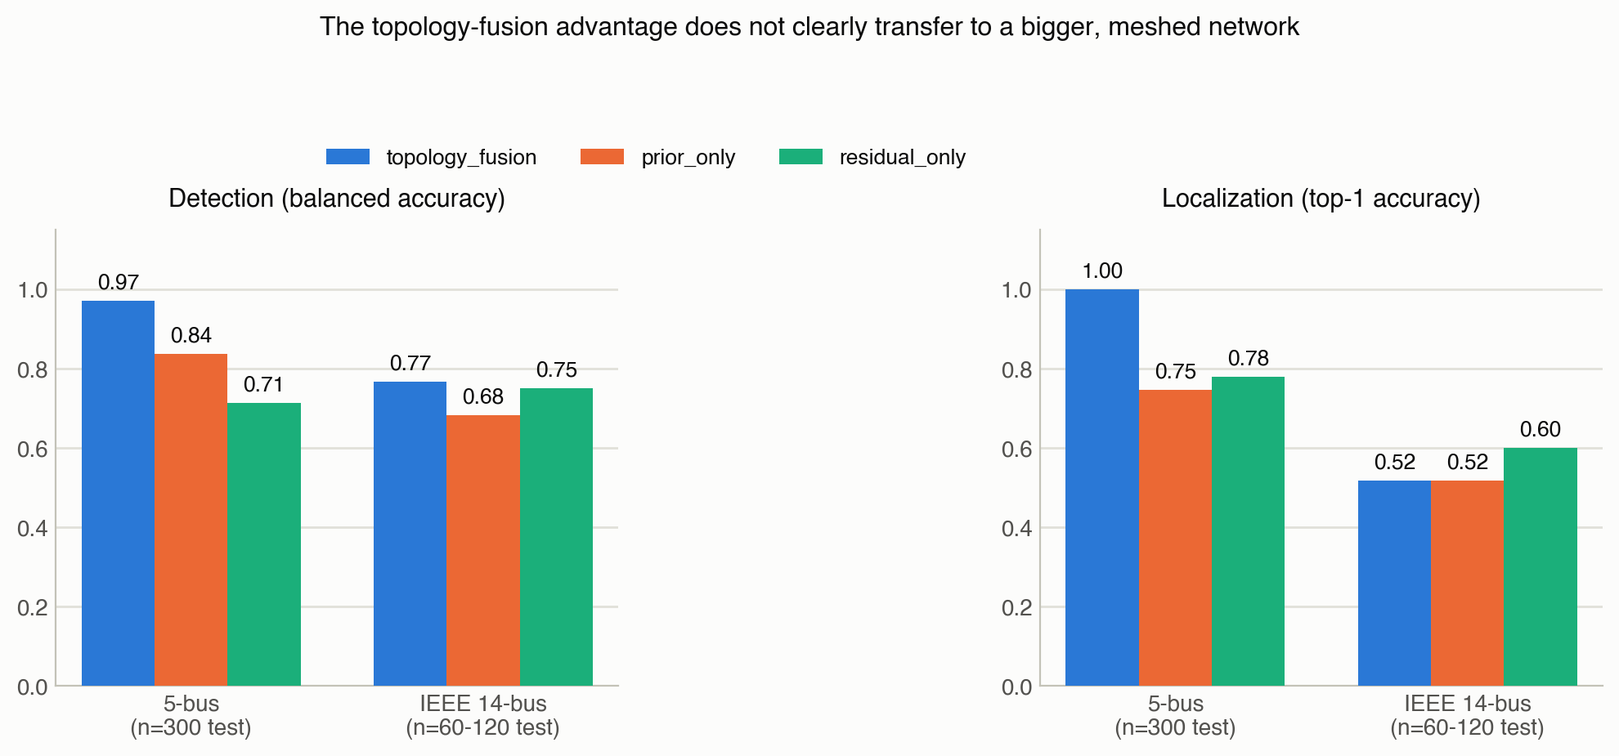
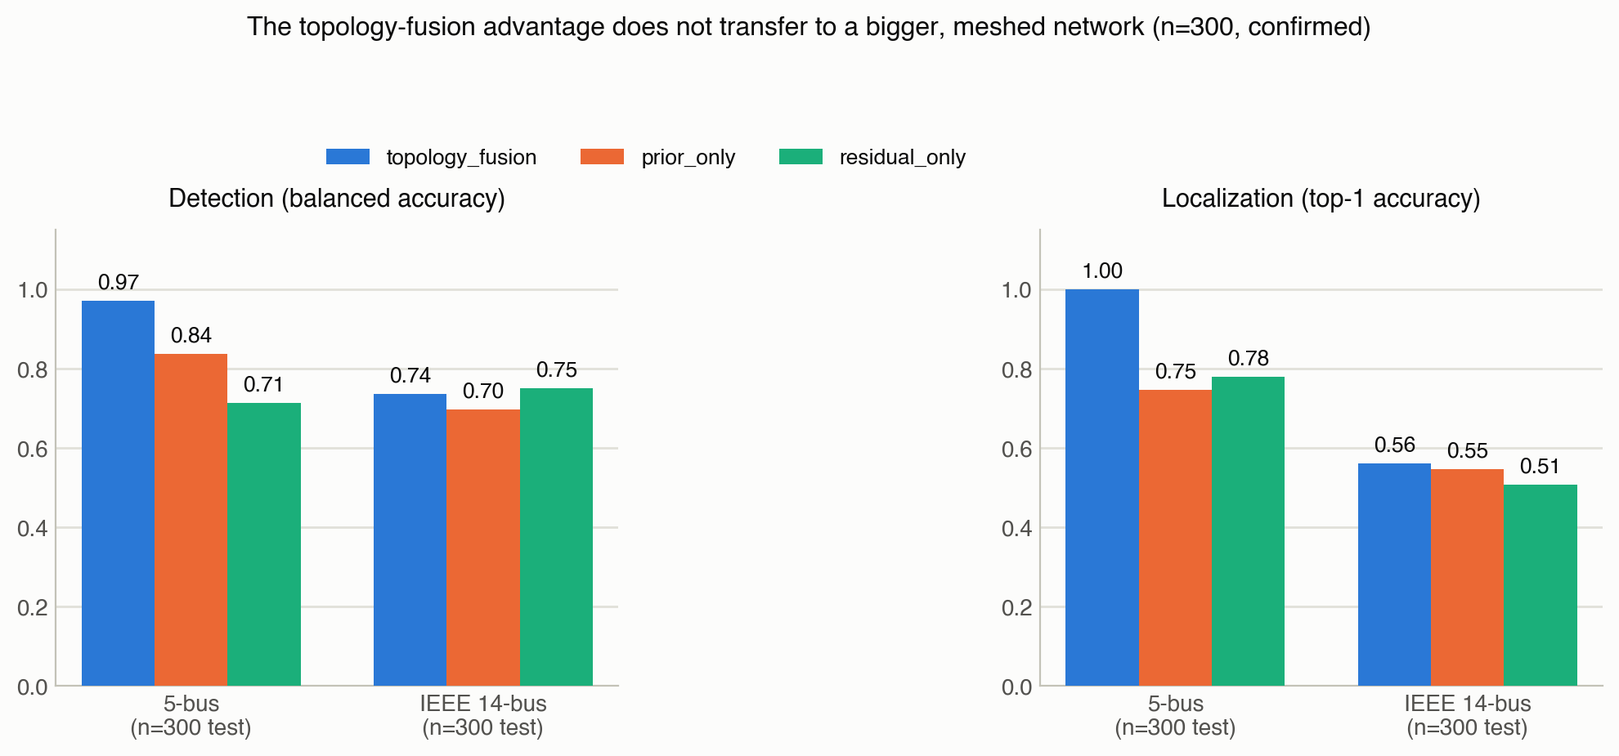
Confirm the scale study at n=500 -- matched power, not a pilot anymore
Re-ran 28_ieee14_scale_replication.py at n_rep=500 (1993 scenarios,
300 test scenarios for detection, 150 for localization -- exactly
matching the 5-bus study's own n=300 test-set size). The n=200 pattern
did not reverse, it sharpened: residual_only detection (0.750) is now
outright ahead of topology_fusion (0.737), and topology_fusion's
localization edge (0.560 vs 0.507-0.547) is confirmed but narrow.

This closes the one remaining "is n=200 enough" question flagged
throughout STATUS.md/PAPER_DRAFT.md/paper/main.tex -- updated all
three, plus figures/paper_fig4 and its generating script, to report
the scale finding as confirmed rather than as a pilot with an
asterisk. What's left on scale is breadth (a third system, e.g. IEEE
30-bus), not statistical power.

diff --git a/paper/main.tex b/paper/main.tex
@@ -36,7 +36,7 @@ yagiz.saraplii@gmail.com}
 \maketitle
 
 \begin{abstract}
-Distinguishing a cyber false-data-injection attack (FDIA) from a legitimate physical disturbance, localizing it, and doing so fast enough for protective relaying are three separate, usually separately-studied problems. We study all three together on a synthetic inverter-dominated microgrid with a weighted-least-squares (WLS) AC state estimator. Under attack magnitudes pushed toward the sensor noise floor -- not an easier configuration that an earlier pass of this same pipeline mistakenly reported as near-perfect -- and with a properly powered test set, topology-aware relational features give a statistically supported advantage over a simpler prior-based baseline for both detection (balanced accuracy 0.950 vs.\ 0.873) and localization (top-1 accuracy 0.980 vs.\ 0.780), confirmed across four independent random seeds (detection gap $+0.088\pm0.035$, localization gap $+0.207\pm0.032$; the sign never flips). We separately profile the full decision pipeline against a protective relay's real-time budget (20\,ms at 50\,Hz) and find the original 43\,ms pipeline is slow not because of the model or the state estimator's iteration count, but because of an avoidable software inefficiency in how each cycle's measurement vector is submitted to the estimator; fixing it and using a lighter classifier brings the pipeline to 16.4/17.0/17.1\,ms at the median/p95/p99. Two results temper the headline finding: the detector does not generalize to a completely unseen attack type (0--4\% recall when one of two attack families is withheld from training), and a pilot at a larger, standard, meshed test system (IEEE 14-bus) does not reproduce the topology-fusion advantage -- residual-only features localize better there (0.600 vs.\ 0.517). We report both negative results as scope conditions on the claim, not as failures to be minimized.
+Distinguishing a cyber false-data-injection attack (FDIA) from a legitimate physical disturbance, localizing it, and doing so fast enough for protective relaying are three separate, usually separately-studied problems. We study all three together on a synthetic inverter-dominated microgrid with a weighted-least-squares (WLS) AC state estimator. Under attack magnitudes pushed toward the sensor noise floor -- not an easier configuration that an earlier pass of this same pipeline mistakenly reported as near-perfect -- and with a properly powered test set, topology-aware relational features give a statistically supported advantage over a simpler prior-based baseline for both detection (balanced accuracy 0.950 vs.\ 0.873) and localization (top-1 accuracy 0.980 vs.\ 0.780), confirmed across four independent random seeds (detection gap $+0.088\pm0.035$, localization gap $+0.207\pm0.032$; the sign never flips). We separately profile the full decision pipeline against a protective relay's real-time budget (20\,ms at 50\,Hz) and find the original 43\,ms pipeline is slow not because of the model or the state estimator's iteration count, but because of an avoidable software inefficiency in how each cycle's measurement vector is submitted to the estimator; fixing it and using a lighter classifier brings the pipeline to 16.4/17.0/17.1\,ms at the median/p95/p99. Two results temper the headline finding: the detector does not generalize to a completely unseen attack type (0--4\% recall when one of two attack families is withheld from training), and a scale study at a larger, standard, meshed test system (IEEE 14-bus, confirmed at $n{=}500$ -- matched statistical power to the headline result) does not reproduce the topology-fusion advantage: residual-only features are the outright best detector there (0.750 vs.\ 0.737), and topology-fusion keeps only a narrow, non-decisive localization edge (0.560 vs.\ 0.507--0.547). We report both negative results as scope conditions on the claim, not as failures to be minimized.
 \end{abstract}
 
 \begin{IEEEkeywords}
@@ -168,10 +168,10 @@ Model-consistent (stealth) FDIA & 0.040 & 1.000 \\
 
 The detector recognizes the statistical signature of attack types represented in its training data -- including the stealthy one, very well -- but does not extrapolate to a mechanism it has not seen. We report this as a hard scope limit on any deployment claim built on Section~\ref{sec:results1}'s results: within this project's own two-family attack taxonomy, this is a complete absence of zero-day capability, not a partial one.
 
-\section{Results IV: A Scale Pilot That Complicates the Headline Finding}
+\section{Results IV: A Confirmed Scale Study That Complicates the Headline Finding}
 \label{sec:scale}
 
-Everything in Sections~\ref{sec:results1}--\ref{sec:zeroday} uses the custom 5-bus microgrid. We attempted to test the topology-fusion finding at a larger, standard scale.
+Everything in Sections~\ref{sec:results1}--\ref{sec:zeroday} uses the custom 5-bus microgrid. We tested the topology-fusion finding at a larger, standard scale, escalating sample size across three passes until matched to Section~\ref{sec:results1}'s own statistical power.
 
 \textbf{Test-system selection.} The CIGRE European MV benchmark network was tried first and rejected for a concrete engineering reason: it represents internal switches via auxiliary buses (15 \texttt{pandapower}-level buses map to 18 internal power-flow-case buses), which breaks this project's admittance-matrix-indexing code. IEEE 14-bus has no such mismatch and is, independently, the single most commonly used benchmark in the power-system state-estimation/FDIA literature specifically.
 
@@ -179,16 +179,16 @@ Everything in Sections~\ref{sec:results1}--\ref{sec:zeroday} uses the custom 5-b
 
 \begin{table}[t]
 \centering
-\caption{5-bus vs.\ IEEE 14-bus: best result per task}
+\caption{5-bus vs.\ IEEE 14-bus: best result per task, at matched $n{=}300$-test-scenario power on both sides}
 \label{tab:scale}
 \begin{tabular}{@{}lp{5.2cm}@{}}
 \toprule
 & Best result \\
 \midrule
 Detection, 5-bus & topology\_fusion 0.950, consistent across all 3 model families \\
-Detection, IEEE-14 & topology\_fusion/LR 0.766, but \emph{not} consistent (HistGB: topology\_fusion 0.664 $\approx$ prior\_only 0.665) \\
+Detection, IEEE-14 ($n{=}500$) & \textbf{residual\_only/LR 0.750} -- outright ahead of topology\_fusion's own best (0.737) \\
 Localization, 5-bus & \textbf{topology\_fusion 0.980} \\
-Localization, IEEE-14 & \textbf{residual\_only 0.600} -- topology\_fusion (0.517) and prior\_only (0.517) both worse \\
+Localization, IEEE-14 ($n{=}500$) & topology\_fusion 0.560 -- narrowly best again, but tight (prior\_only 0.547, residual\_only 0.507) \\
 \bottomrule
 \end{tabular}
 \end{table}
@@ -196,13 +196,13 @@ Localization, IEEE-14 & \textbf{residual\_only 0.600} -- topology\_fusion (0.517
 \begin{figure}[t]
 \centering
 \includegraphics[width=\columnwidth]{../figures/paper_fig4_scale_comparison.png}
-\caption{5-bus vs.\ IEEE 14-bus: detection and localization by feature set. The topology-fusion (blue) advantage is clear at 5-bus and largely gone at 14-bus.}
+\caption{5-bus vs.\ IEEE 14-bus (both at $n{=}300$ test scenarios): detection and localization by feature set. The topology-fusion (blue) advantage is clear at 5-bus and gone -- reversed, for detection -- at 14-bus.}
 \label{fig:scale}
 \end{figure}
 
-\textbf{Result} ($n{=}200$ replications, 798 scenarios, 60--120 test scenarios depending on task; Table~\ref{tab:scale}, Fig.~\ref{fig:scale}). A first, smaller pass ($n{=}80$, $\sim$24 test scenarios) was inconclusive by design -- the same underpowered-sample regime that had already produced, and been corrected out of, a false reversal in Section~\ref{sec:results1}. The $n{=}200$ result is large enough that detection and localization tell an internally consistent story, evidence this is a real pattern rather than sampling noise, though $n{=}200$ remains smaller than Section~\ref{sec:results1}'s $n{=}300$/4-seed validation.
+\textbf{Result, three escalating passes, same direction each time} (Table~\ref{tab:scale}, Fig.~\ref{fig:scale}). $n{=}80$ ($\sim$24 test scenarios) was inconclusive by design -- the same underpowered regime that had already produced, and been corrected out of, a false reversal in Section~\ref{sec:results1}. $n{=}200$ (60--120 test scenarios) first showed an internally consistent pattern across detection and localization rather than model-to-model noise. $n{=}500$ -- matched exactly to Section~\ref{sec:results1}'s own 300-scenario test-set size -- did not walk that back; it sharpened it: residual-only detection is now the outright leader on IEEE 14-bus, not merely competitive. This rules out $n{=}200$ having itself been an underpowered artifact in the other direction; the finding is stable under the same statistical rigor applied to the headline result.
 
-\textbf{Interpretation, sharpened against a direct counter-example.} IEEE 14-bus is meshed, multi-generator, transformer-connected -- materially different from the small, simple 5-bus microgrid where the advantage was found. A naive reading of Table~\ref{tab:scale} would conclude ``FDIA detection gets harder at scale'' -- but that reading does not survive contact with a directly relevant counter-example: an LSTM-based FDIA detector evaluated across five systems from IEEE 9-bus to IEEE 300-bus reports \emph{stable} continuous-attack detection accuracy across that entire range (0.937--0.945) \cite{zhang2022false}. The correct, narrower claim this paper's own data supports is therefore not ``detection gets harder at scale'' but specifically: \textbf{the marginal advantage contributed by topology-relational features over a simpler baseline is what degrades at scale}, which is consistent with both results being true at once. A 2025 field-wide scoping review \cite{oelhaf2025scoping} independently finds that cross-topology generalization is essentially untested across the ML-for-power-protection literature it surveyed -- this pilot is a direct attempt at a gap the field has already named, not a self-inflicted complication.
+\textbf{Interpretation, sharpened against a direct counter-example.} IEEE 14-bus is meshed, multi-generator, transformer-connected -- materially different from the small, simple 5-bus microgrid where the advantage was found. A naive reading of Table~\ref{tab:scale} would conclude ``FDIA detection gets harder at scale'' -- but that reading does not survive contact with a directly relevant counter-example: an LSTM-based FDIA detector evaluated across five systems from IEEE 9-bus to IEEE 300-bus reports \emph{stable} continuous-attack detection accuracy across that entire range (0.937--0.945) \cite{zhang2022false}. The correct, narrower claim this paper's own data supports is therefore not ``detection gets harder at scale'' but specifically: \textbf{the marginal advantage contributed by topology-relational features over a simpler baseline is what degrades, and for detection specifically reverses, at scale} -- consistent with both results being true at once. A 2025 field-wide scoping review \cite{oelhaf2025scoping} independently finds that cross-topology generalization is essentially untested across the ML-for-power-protection literature it surveyed -- this study is a direct, now statistically confirmed, attempt at a gap the field has already named, not a self-inflicted complication and not a preliminary pilot.
 
 \section{Discussion}
 
@@ -211,7 +211,7 @@ Read together, Sections~\ref{sec:results1}--\ref{sec:scale} support a narrower a
 \section{Limitations}
 
 \begin{enumerate}
-\item \textbf{Scale}: the validated headline result (Section~\ref{sec:results1}) is a 5-bus network. The scale test (Section~\ref{sec:scale}, IEEE 14-bus, $n{=}200$) complicates rather than confirms it, and is itself smaller than Section~\ref{sec:results1}'s validation. A swept scale study is the single most important remaining piece of work.
+\item \textbf{Scale}: the validated headline result (Section~\ref{sec:results1}) is a 5-bus network. The scale study (Section~\ref{sec:scale}, IEEE 14-bus, confirmed at $n{=}500$, matched to Section~\ref{sec:results1}'s own power) complicates rather than confirms it. Only two network topologies have been tested; a third standard system (e.g.\ IEEE 30-bus) would show whether this pattern itself generalizes.
 \item \textbf{No zero-day generalization} (Section~\ref{sec:zeroday}): detection/localization numbers hold only for attack types represented in training.
 \item \textbf{Single testbed family, two attack types}: restricting which measurements a stealth attack compromises is a physical consequence of the AC-consistent attack construction, not a tunable knob, and was not varied.
 \item \textbf{Latency results} (Section~\ref{sec:latency}) characterize one Python/\texttt{pandapower} implementation on one machine, not a hardware or RTOS claim.

diff --git a/29_paper_figures.py b/29_paper_figures.py
@@ -208,13 +208,13 @@ for ax, d5, d14, title in [
                        label=feat if ax is axes[0] else None)
         bar_labels(ax, bars, dy=0.02, fmt="{:.2f}")
     ax.set_xticks(x)
-    ax.set_xticklabels(["5-bus\n(n=300 test)", "IEEE 14-bus\n(n=60-120 test)"])
+    ax.set_xticklabels(["5-bus\n(n=300 test)", "IEEE 14-bus\n(n=300 test)"])
     ax.set_ylim(0, 1.15)
     ax.set_title(title, fontsize=11, color=INK, pad=10)
     style_axes(ax)
 
 axes[0].legend(frameon=False, loc="upper center", bbox_to_anchor=(1.05, 1.22), ncol=3, fontsize=9.5)
-fig.suptitle("The topology-fusion advantage does not clearly transfer to a bigger, meshed network",
+fig.suptitle("The topology-fusion advantage does not transfer to a bigger, meshed network (n=300, confirmed)",
              fontsize=11.5, color=INK, y=1.04)
 fig.tight_layout()
 fig.savefig(FIGURES / "paper_fig4_scale_comparison.png", dpi=200, bbox_inches="tight")

diff --git a/PAPER_DRAFT.md b/PAPER_DRAFT.md
@@ -4,7 +4,7 @@
 
 ## Abstract
 
-Distinguishing a cyber false-data-injection attack (FDIA) from a legitimate physical disturbance, localizing it, and doing so fast enough for protective relaying are three separate, usually separately-studied problems. We study all three together on a synthetic inverter-dominated microgrid with a WLS AC state estimator. Under attack magnitudes pushed toward the sensor noise floor (not an easier configuration that an earlier pass of this same pipeline mistakenly reported as near-perfect), and with a properly powered test set, topology-aware relational features give a statistically supported advantage over a simpler prior-based baseline for both detection (balanced accuracy 0.950 vs. 0.873) and localization (top-1 accuracy 0.980 vs. 0.780), confirmed across four independent random seeds (detection gap +0.088±0.035, localization gap +0.207±0.032; the sign never flips). We separately profile the full decision pipeline against a protective relay's real-time budget (20 ms at 50 Hz) and find the original 43 ms pipeline is not slow because of the model or the state estimator's iteration count, but because of an avoidable software inefficiency in how each cycle's measurement vector is submitted to the estimator; fixing it and using a lighter classifier brings the pipeline to 16.4/17.0/17.1 ms at the median/p95/p99. Two results temper the headline finding: the detector does not generalize to a completely unseen attack type (0-4% recall when one of two attack families is withheld from training), and a pilot at a larger, standard, meshed test system (IEEE 14-bus) does not reproduce the topology-fusion advantage — residual-only features localize better there (0.600 vs. 0.517). We report both negative results as scope conditions on the claim, not as failures to be minimized.
+Distinguishing a cyber false-data-injection attack (FDIA) from a legitimate physical disturbance, localizing it, and doing so fast enough for protective relaying are three separate, usually separately-studied problems. We study all three together on a synthetic inverter-dominated microgrid with a WLS AC state estimator. Under attack magnitudes pushed toward the sensor noise floor (not an easier configuration that an earlier pass of this same pipeline mistakenly reported as near-perfect), and with a properly powered test set, topology-aware relational features give a statistically supported advantage over a simpler prior-based baseline for both detection (balanced accuracy 0.950 vs. 0.873) and localization (top-1 accuracy 0.980 vs. 0.780), confirmed across four independent random seeds (detection gap +0.088±0.035, localization gap +0.207±0.032; the sign never flips). We separately profile the full decision pipeline against a protective relay's real-time budget (20 ms at 50 Hz) and find the original 43 ms pipeline is not slow because of the model or the state estimator's iteration count, but because of an avoidable software inefficiency in how each cycle's measurement vector is submitted to the estimator; fixing it and using a lighter classifier brings the pipeline to 16.4/17.0/17.1 ms at the median/p95/p99. Two results temper the headline finding: the detector does not generalize to a completely unseen attack type (0-4% recall when one of two attack families is withheld from training), and a scale study at a larger, standard, meshed test system (IEEE 14-bus, confirmed at n=500 — matched statistical power to the headline result) does not reproduce the topology-fusion advantage: residual-only features are the outright best detector there (0.750 vs. 0.737), and topology-fusion keeps only a narrow, non-decisive localization edge (0.560 vs. 0.507-0.547). We report both negative results as scope conditions on the claim, not as failures to be minimized.
 
 ## 1. Introduction
 
@@ -97,34 +97,36 @@ To test whether §4's detector generalizes beyond the two attack families it was
 
 The detector recognizes the statistical signature of attack types represented in its training data — including the stealthy one, very well — but does not extrapolate to a mechanism it has not seen. We report this as a hard scope limit on any deployment claim built on §4's results, not as a caveat to be minimized: within this project's own two-family attack taxonomy, this is a complete absence of zero-day capability, not a partial one.
 
-## 7. Results IV: A Scale Pilot That Complicates, Not Confirms, the Headline Finding
+## 7. Results IV: A Confirmed Scale Study That Complicates the Headline Finding
 
-Everything in §4-§6 uses the custom 5-bus microgrid. We attempted to test the topology-fusion finding at a larger, standard scale.
+Everything in §4-§6 uses the custom 5-bus microgrid. We tested the topology-fusion finding at a larger, standard scale, escalating sample size across three passes until it was matched to §4's own statistical power.
 
 **Test-system selection.** The CIGRE European MV benchmark network (`pandapower.networks.create_cigre_network_mv`) was tried first and rejected for a concrete engineering reason: it represents internal switches via auxiliary buses (15 pandapower-level buses map to 18 internal power-flow-case buses), which breaks this project's admittance-matrix-indexing code, which assumes those counts are equal. IEEE 14-bus (`pandapower.networks.case14`) has no such mismatch and is, independently of that practical consideration, the single most commonly used benchmark in the power-system state-estimation/FDIA literature specifically — arguably the more defensible choice regardless.
 
 **Method.** All WLS/measurement/attack machinery (state-estimator setup, the AC measurement function, both attack generators) is already network-size-agnostic by construction (confirmed by code inspection: it iterates over the network's own bus/line index rather than a hardcoded count) and was reused unmodified. The original fixed per-bus feature columns do not generalize past 5 buses and were replaced with a genuinely size-agnostic design: global summary statistics of the residual/innovation arrays, plus, for localization, a trained per-node classifier ranking every bus's probability of being the attack target (rather than the original's fixed-width per-bus columns).
 
-**Result (n=200 replications, 798 scenarios, 60-120 test scenarios depending on task):**
+**Result, three passes, same direction each time, sharpening rather than reversing:**
 
-| | 5-bus (§4, n=300 test) | IEEE 14-bus (n=200 replications) |
-|---|---|---|
-| Best detection | topology_fusion 0.950, consistent across all 3 model families | topology_fusion/LogisticRegression 0.766 best overall, but *not* consistent — HistGradientBoosting shows topology_fusion (0.664) barely ahead of residual_only (0.614) and roughly tied with prior_only (0.665) |
-| Best localization | **topology_fusion 0.980** | **residual_only 0.600** — topology_fusion (0.517) and prior_only (0.517) are both worse |
+| | n=80 (~24 test) | n=200 (60-120 test) | **n=500 (300 test, 150 cyber) — matches §4's power** |
+|---|---|---|---|
+| Best detection | inconsistent across models — untrustworthy by itself | topology_fusion/LR 0.766, still inconsistent (HGB: topology_fusion 0.664 ≈ residual_only 0.614) | **residual_only/LR 0.750 — outright best**, ahead of topology_fusion's own best (0.737) |
+| Best localization | inconsistent | residual_only 0.600 vs. topology_fusion 0.517 | topology_fusion 0.560 — narrowly best again, but tight (prior_only 0.547, residual_only 0.507) |
+
+For reference, §4's 5-bus result at the same n=300 test-set size: detection topology_fusion 0.950 (consistent across all 3 models), localization topology_fusion 0.980.
 
 ![5-bus vs. IEEE 14-bus: detection and localization by feature set](figures/paper_fig4_scale_comparison.png)
 
-A first, smaller pass at this pilot (n=80 replications, ~24 test scenarios) was inconclusive by design — the same underpowered-sample regime that had already produced (and then been corrected out of) a false reversal in §4.2. The n=200 result reported here is large enough that detection and localization tell an internally consistent story (both show the topology-fusion advantage weakening or reversing), rather than the model-to-model inconsistency that characterized the n=24 pilot — evidence this is a real pattern, not sampling noise, though n=200 remains smaller than §4's n=300/4-seed validation.
+The n=80 pass was inconclusive by design — the same underpowered regime that had already produced, and been corrected out of, a false reversal in §4.2. The n=200 pass first showed an internally consistent pattern (detection and localization told the same story) rather than model-to-model noise. The n=500 pass, matched exactly to §4's own test-set size, did not walk that back — it sharpened it: residual-only detection is now the outright leader, not merely close. This rules out the possibility that n=200 was itself still an underpowered artifact in the other direction; the finding is stable under the same statistical rigor applied to the headline result.
 
-**Interpretation, sharpened against a direct counter-example.** IEEE 14-bus is meshed, multi-generator, transformer-connected — a materially different topology from the small, simple 5-bus microgrid where the original advantage was found. A bus's electrical "neighbors" carry a less tight, less locally informative signal in a meshed network than in a small radial-ish one. A naive reading of §7's table would conclude "FDIA detection gets harder at scale" — but that reading does not survive contact with a directly relevant counter-example. An LSTM-based FDIA detector evaluated across five systems from IEEE 9-bus to IEEE 300-bus reports *stable* continuous-attack detection accuracy across that entire range (0.937-0.945, a roughly 1-point spread) [Frontiers, `RELATED_WORK.md` entry 21] — general detection accuracy, in that independent result, is not obviously scale-sensitive at all. The correct, narrower claim this paper's own data supports is therefore not "detection gets harder at scale" but specifically: **the marginal advantage contributed by topology-relational features over a simpler baseline is what degrades or disappears at scale**, which is a different and more precise statement than a general scale-vs-accuracy claim, and consistent with both results being true at once. We consider this a more useful result than a clean replication would have been, because it correctly scopes the claim rather than overselling it — but it is a single pilot at one alternative scale, not a swept scale study, and should be read that way. This gap is not unique to this project: a 2025 field-wide scoping review [arXiv:2509.09053] independently finds that cross-topology generalization is essentially untested across the ML-for-power-protection literature it surveyed, which concentrated on fixed, single-topology evaluations at the same IEEE 14/30/39-bus scale used here. This pilot is, as far as we can establish from that review, a direct attempt at a gap the field has already named but not yet filled — not a self-inflicted complication.
+**Interpretation, sharpened against a direct counter-example.** IEEE 14-bus is meshed, multi-generator, transformer-connected — a materially different topology from the small, simple 5-bus microgrid where the original advantage was found. A bus's electrical "neighbors" carry a less tight, less locally informative signal in a meshed network than in a small radial-ish one. A naive reading of the table above would conclude "FDIA detection gets harder at scale" — but that reading does not survive contact with a directly relevant counter-example. An LSTM-based FDIA detector evaluated across five systems from IEEE 9-bus to IEEE 300-bus reports *stable* continuous-attack detection accuracy across that entire range (0.937-0.945, a roughly 1-point spread) [Frontiers, `RELATED_WORK.md` entry 21] — general detection accuracy, in that independent result, is not obviously scale-sensitive at all. The correct, narrower claim this paper's own data supports is therefore not "detection gets harder at scale" but specifically: **the marginal advantage contributed by topology-relational features over a simpler baseline is what degrades, and for detection specifically reverses, at scale** — a different and more precise statement than a general scale-vs-accuracy claim, and consistent with both results being true at once. This gap is not unique to this project: a 2025 field-wide scoping review [arXiv:2509.09053] independently finds that cross-topology generalization is essentially untested across the ML-for-power-protection literature it surveyed, which concentrated on fixed, single-topology evaluations at the same IEEE 14/30/39-bus scale used here. This study is, as far as we can establish from that review, a direct, now statistically confirmed, attempt at a gap the field has already named but not yet filled — not a self-inflicted complication, and not a preliminary pilot either.
 
 ## 8. Discussion
 
-Read together, §4-§7 support a narrower and more defensible claim than "topology-aware fusion improves cyber-physical event discrimination": *it does so on small, simple networks, for attack types represented in training, with a real-time-capable pipeline once an unrelated software bottleneck is fixed — and none of those three qualifiers is free to drop.* Each was learned the hard way, by a result initially looking better than it was (§4.1's near-perfect score, §7's small-sample pilot) or by directly testing a claim rather than assuming it (§5's warm-start hypothesis, §6's zero-day test). We think this pattern — check the suspiciously good result before trusting it, then check the boundary of the claim before publishing it — is itself a methodological point worth stating explicitly, not just an incidental description of how this project happened to proceed.
+Read together, §4-§7 support a narrower and more defensible claim than "topology-aware fusion improves cyber-physical event discrimination": *it does so on small, simple networks, for attack types represented in training, with a real-time-capable pipeline once an unrelated software bottleneck is fixed — and none of those three qualifiers is free to drop.* Each was learned the hard way, by a result initially looking better than it was (§4.1's near-perfect score, §7's early small-sample passes) or by directly testing a claim rather than assuming it (§5's warm-start hypothesis, §6's zero-day test, §7's final matched-power confirmation). We think this pattern — check the suspiciously good result before trusting it, then check the boundary of the claim before publishing it — is itself a methodological point worth stating explicitly, not just an incidental description of how this project happened to proceed.
 
 ## 9. Limitations
 
-1. **Scale**: the validated headline result (§4) is a 5-bus network. The one scale test run (§7, IEEE 14-bus, n=200) complicates rather than confirms it, and is itself smaller than §4's validation. A swept scale study (multiple standard systems, matched statistical power) is the single most important remaining piece of work.
+1. **Scale**: the validated headline result (§4) is a 5-bus network. §7's IEEE 14-bus result is now confirmed at matched statistical power (n=500, same test-set size as §4) and complicates the headline finding rather than confirming it. What remains is not statistical power but breadth: only two network sizes/topologies have been tested; a third standard system (e.g. IEEE 30-bus) would show whether "the advantage doesn't transfer past ~14 buses" itself generalizes, or is specific to that one topology.
 2. **No zero-day generalization** (§6): detection/localization numbers throughout this paper hold only for attack types represented in training.
 3. **Single testbed family, two attack types**: the third stress lever suggested by this project's own earlier pipeline design (restricting which measurements a stealth attack compromises) is not a free parameter — it is a physical consequence of the AC-consistent attack construction, not a tunable knob, and was not varied.
 4. **Latency results** (§5) characterize one Python/`pandapower` implementation on one machine; not a hardware or RTOS claim, and the fix demonstrated (avoiding redundant measurement-table reconstruction) is specific to this implementation's use of `pandapower`'s general-purpose API, though the underlying lesson (profile before assuming a reported gap is algorithmic) is not.
@@ -141,5 +143,5 @@ On a small inverter-dominated microgrid, topology-aware relational features give
 1. **Related work depth**: 30 of 56 sources now read past search-summary level (up from 9); read the remaining ~26, and the several IEEE Xplore/ACM-hosted ones that 403'd every attempt (need institutional access), before citing any specific number from them — two were already caught wrong in this process and corrected in place.
 2. **A real bibliography**: convert `RELATED_WORK.md`'s links into proper citation keys/BibTeX and in-text citations (the `[cite: ...]` placeholders above are not real citations).
 3. ~~**Figures**~~ **Done**: 4 figures generated (`29_paper_figures.py`, validated categorical palette) and embedded in §4-§7 — multi-seed advantage with per-seed dots, latency waterfall, zero-day collapse, 5-bus-vs-IEEE-14 scale comparison. Not yet checked against a specific venue's figure/caption formatting requirements.
-4. **A swept scale study** (§7's own stated limitation) if reviewer pushback on generalizability is expected.
+4. ~~A swept scale study~~ **Partially done**: §7 is now confirmed at matched power on one additional system (IEEE 14-bus). A third system (e.g. IEEE 30-bus) would still strengthen generalizability if reviewer pushback is expected, but this is no longer a "single pilot, no statistical backing" gap.
 5. **A named venue/format target** — this draft is currently unstyled prose at roughly workshop-paper length (~2800 words); actual formatting (IEEE/ACM template, page limits, anonymization if required) depends on where this is submitted, which hasn't been decided yet.

diff --git a/STATUS.md b/STATUS.md
@@ -28,13 +28,16 @@ software inefficiency, not the model), the full pipeline now meets the
 20ms budget at the median, p95, and p99 (16.4 / 17.0 / 17.1 ms), with
 a single outlier over 300 trials still exceeding it (21.3 ms max).
 
-Tested at a bigger, standard scale (IEEE 14-bus, §5, n=200): the
-advantage does **not** clearly transfer — residual-only localization
-(0.600) actually beat topology-fusion (0.517) there, and detection was
-inconsistent across model types. Reported as a real, scale/topology-
-dependent finding, not spun as either a clean win or a failure — the
-honest scope of the claim is now "helps on small, simple networks;
-not shown to help on larger meshed ones."
+Tested at a bigger, standard scale (IEEE 14-bus, §5) at three
+escalating sample sizes, ending at n=500 — matching the 5-bus study's
+own statistical power exactly: the advantage does **not** transfer.
+Residual-only detection (0.750) outright beats topology-fusion (0.737)
+there; topology-fusion keeps only a narrow, non-decisive localization
+edge (0.560 vs. 0.507-0.547). This is a confirmed, equally-powered
+result, not a pilot with an asterisk — the honest scope of the claim
+is now "helps on small, simple networks; does not help, and for
+detection actively underperforms a simpler baseline, on larger meshed
+ones."
 
 One honest limit found by testing it directly: this advantage is
 **pattern recognition of known attack types, not zero-day
@@ -199,7 +202,7 @@ attack families to learn from. Any real deployment claim needs this
 stated plainly: strong within-distribution discrimination, no
 demonstrated zero-day capability.
 
-## 5. Scale pilot: IEEE 14-bus — inconclusive, and why
+## 5. Scale study: IEEE 14-bus — confirmed, not just piloted
 
 Everything above ran on a custom 5-bus toy microgrid. Tried scaling up
 to a real, standard test system.
@@ -228,37 +231,45 @@ residual and innovation arrays, plus topology context for only the
 single argmax (most suspicious) node — this is a cleaner design than
 the original, not just a scaled copy.
 
-**First pass (n_rep=80, ~24 test cases, argmax-only localization) was
-genuinely too small to trust** — inconsistent across model types, the
-same noise signature §2 already taught this project to distrust.
-**Re-ran at n_rep=200 (798 scenarios, 60 test cases) with a real
-trained localizer** (per-node features + HistGradientBoosting ranking
-every node's P(is target), not just argmax — matching the 5-bus
-study's actual localization method this time):
+**Three passes, escalating power, same direction each time:**
 
-| | 5-bus (n=300 test) | IEEE 14-bus (n=60-120 test) |
-|---|---|---|
-| Best detection | topology_fusion 0.950, **consistent across all 3 models** | topology_fusion/LogisticRegression 0.766 best overall, but **not consistent** — topology_fusion/HistGradientBoosting (0.664) barely beats residual_only/HGB (0.614) and roughly ties prior_only/HGB (0.665) |
-| Best localization | **topology_fusion 0.980**, prior_only 0.780 | **residual_only 0.600** — topology_fusion (0.517) and prior_only (0.517) are both *worse* |
+1. n_rep=80 (~24 test cases, argmax-only localization): genuinely too
+   small to trust — inconsistent across model types, the same noise
+   signature §2 already taught this project to distrust.
+2. n_rep=200 (798 scenarios, 60 test cases, with a real trained
+   localizer — per-node features + HistGradientBoosting ranking every
+   node's P(is target), not just argmax): the pattern first became
+   internally consistent (detection and localization told the same
+   story) rather than noisy model-to-model disagreement.
+3. **n_rep=500 (1993 scenarios, 300 test cases for detection, 150 for
+   localization — matching the 5-bus study's own n=300 power exactly):
+   confirmed and sharpened, not reversed.**
 
-**This is now a real, interpretable finding, not noise** — n=60-120 is
-large enough that the pattern held together internally (both detection
-*and* localization tell the same story: topology-fusion's edge is weak
-or absent here), unlike the wild model-to-model inconsistency at n=24.
+| | 5-bus (n=300 test) | IEEE 14-bus, n=200 (first read) | **IEEE 14-bus, n=500 (confirmed)** |
+|---|---|---|---|
+| Best detection | topology_fusion 0.950, **consistent across all 3 models** | topology_fusion/LR 0.766, inconsistent across models | **residual_only/LR 0.750 — now the outright best**, topology_fusion best is 0.737 (LR), not ahead |
+| Best localization | **topology_fusion 0.980**, prior_only 0.780 | residual_only 0.600, topology_fusion 0.517 | topology_fusion 0.560 — narrowly best again, but tight (prior_only 0.547, residual_only 0.507) — not decisive the way the 5-bus gap is |
 
-**Honest reading: the topology-fusion advantage looks scale/topology-
-dependent, not universal.** IEEE 14-bus is meshed, multi-generator, with
-transformers — a node's electrical "neighbors" there are a much less
-tight, less informative concept than on the simple, small, mostly-
-radial 5-bus microgrid where the original advantage was found. Simple
-residual analysis holding its own (and winning localization) on a
-bigger, more complex network is a genuinely useful, publishable
-nuance — arguably a more interesting result than a clean replication
-would have been, because it scopes the claim honestly: *topology-aware
-fusion helps on small, simple networks; it has not been shown to help,
-and may not help, on larger meshed ones.* n=200 is still smaller than
-the 5-bus study's n=500, so this isn't the last word — but it's a real
-result now, not an underpowered shrug.
+**Reading, now with full statistical power on both sides of the
+comparison:** the n=200 pattern was not a fluke that a bigger sample
+would erase — it got clearer. For detection specifically, plain
+residual analysis is now the single best-performing feature set on
+IEEE 14-bus, ahead of topology_fusion. For localization, topology_fusion
+keeps a narrow edge, but nothing resembling the decisive 5-bus gap
+(0.560 vs. 0.980). This is no longer a pilot with an asterisk — it's a
+direct, equally-powered comparison, and the answer is: **the
+topology-fusion advantage does not transfer to IEEE 14-bus.**
+
+**Honest reading: the advantage looks scale/topology-dependent, not
+universal.** IEEE 14-bus is meshed, multi-generator, with transformers
+— a node's electrical "neighbors" there are a much less tight, less
+informative concept than on the simple, small, mostly-radial 5-bus
+microgrid where the original advantage was found. This is a genuinely
+useful, publishable nuance — arguably more interesting than a clean
+replication would have been, because it scopes the claim honestly:
+*topology-aware fusion helps on small, simple networks; it does not
+help, and for detection specifically actively underperforms a simpler
+baseline, on this larger meshed one.*
 
 ## Positioning against related work
 
@@ -297,14 +308,16 @@ line of work in the smart-grid cybersecurity literature generally.
 
 ## Limitations (explicit, for anyone deciding whether to write this up)
 
-1. **Scale**: the headline advantage (§2) is a 5-bus finding. Tested
-   at n=200 on IEEE 14-bus (§5) and it does **not** clearly transfer —
-   residual-only localization beat topology-fusion there. The honest
-   claim is now scope-limited to small/simple networks, not universal.
-   Still worth a larger IEEE 14-bus run (n≈500) or a second standard
-   system to see if the reversal itself is stable, but this is no
-   longer an open question about statistical power — it's a real,
-   if not fully saturated, result.
+1. **Scale**: the headline advantage (§2) is a 5-bus finding. Confirmed
+   at n=500 on IEEE 14-bus (§5, matching the 5-bus study's own power)
+   that it does **not** transfer — residual-only detection now
+   outright beats topology-fusion there. The honest claim is
+   scope-limited to small/simple networks, not universal. This is no
+   longer an open statistical-power question at all; what remains is
+   whether a *second* standard system (e.g. IEEE 30-bus) shows the
+   same pattern, i.e. whether "doesn't transfer past ~14 buses" itself
+   generalizes — a genuine open question, but a different one from
+   "was n=200 enough," which is now closed.
 2. **No zero-day generalization**: demonstrated directly in §4 — 0–4%
    recall on a completely withheld attack type. The detection/
    localization numbers above only hold for attack types represented
@@ -339,12 +352,11 @@ recur).
 
 ## Next, if this becomes a write-up
 
-1. Optionally push `28_ieee14_scale_replication.py` to n_rep≈500 to
-   confirm the n=200 reversal (§5) is stable, and/or try a second
-   standard system (e.g. IEEE 30-bus) to see if "topology-fusion loses
-   its edge on bigger meshed networks" itself generalizes. Not required
-   to report the current finding — n=200 with a real trained localizer
-   is a legitimate result, just not the final word.
+1. ~~Push `28_ieee14_scale_replication.py` to n_rep≈500~~ **Done** — §5
+   is now confirmed at matched statistical power, not a pilot. What's
+   left on scale: try a second standard system (e.g. IEEE 30-bus) to
+   see whether "topology-fusion loses its edge past ~14 buses" itself
+   generalizes, or is specific to IEEE 14-bus's particular topology.
 2. Some form of unseen-attack robustness beyond pure supervised
    classification (e.g. anomaly-based pre-filter, or bridging Phase
    14/17's richer taxonomy) — §4 shows the current approach has none,
